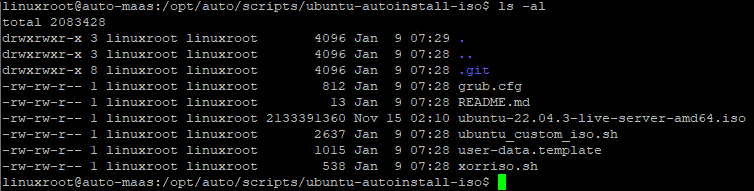
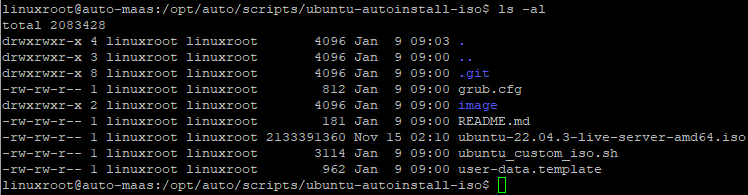
update

diff --git a/README.md b/README.md
@@ -9,3 +9,18 @@ upload Ubuntu ISO to this folder
 
 ![Alt text](image/image.png)
 
+```bash
+sudo bash ubuntu_custom_iso.sh \
+-i ubuntu-22.04.3-live-server-amd64.iso \
+-u user-data.template \
+-a 192.168.86.132 \
+-m 255.255.255.0 \
+-g 192.168.86.1 \
+-n ubuntu-autolab \
+-d 192.168.86.1
+```
+
+after run above script
+
+![Alt text](image/image-1.png)
+
